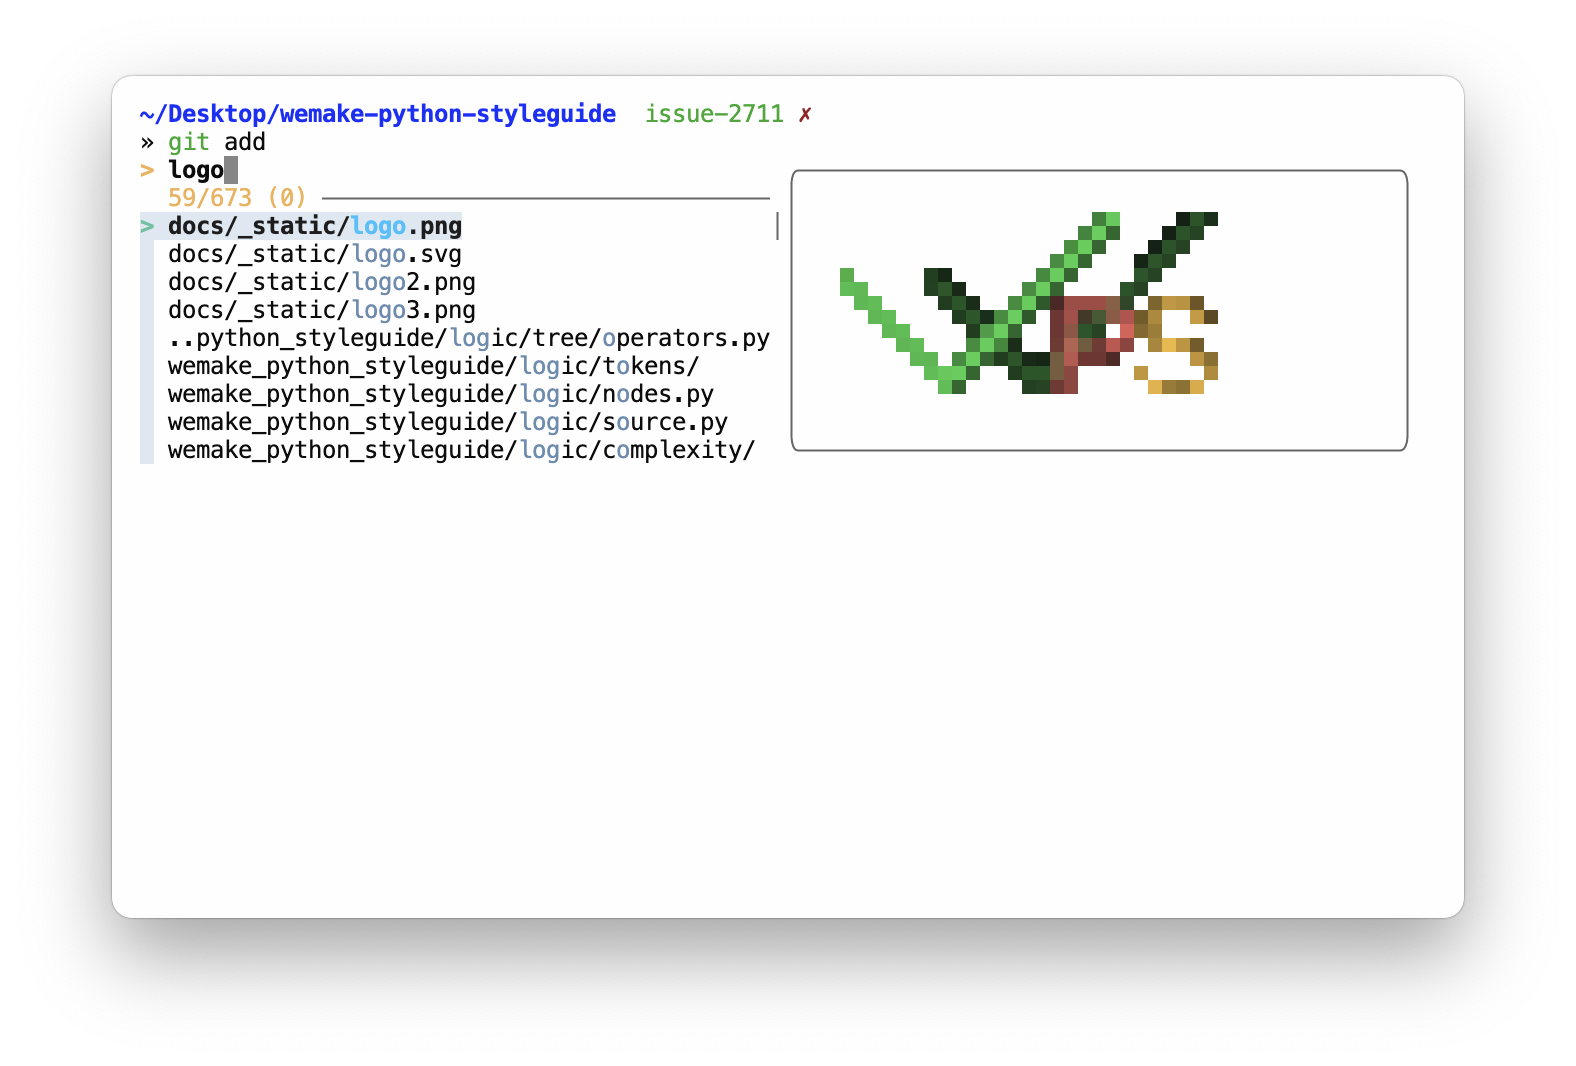
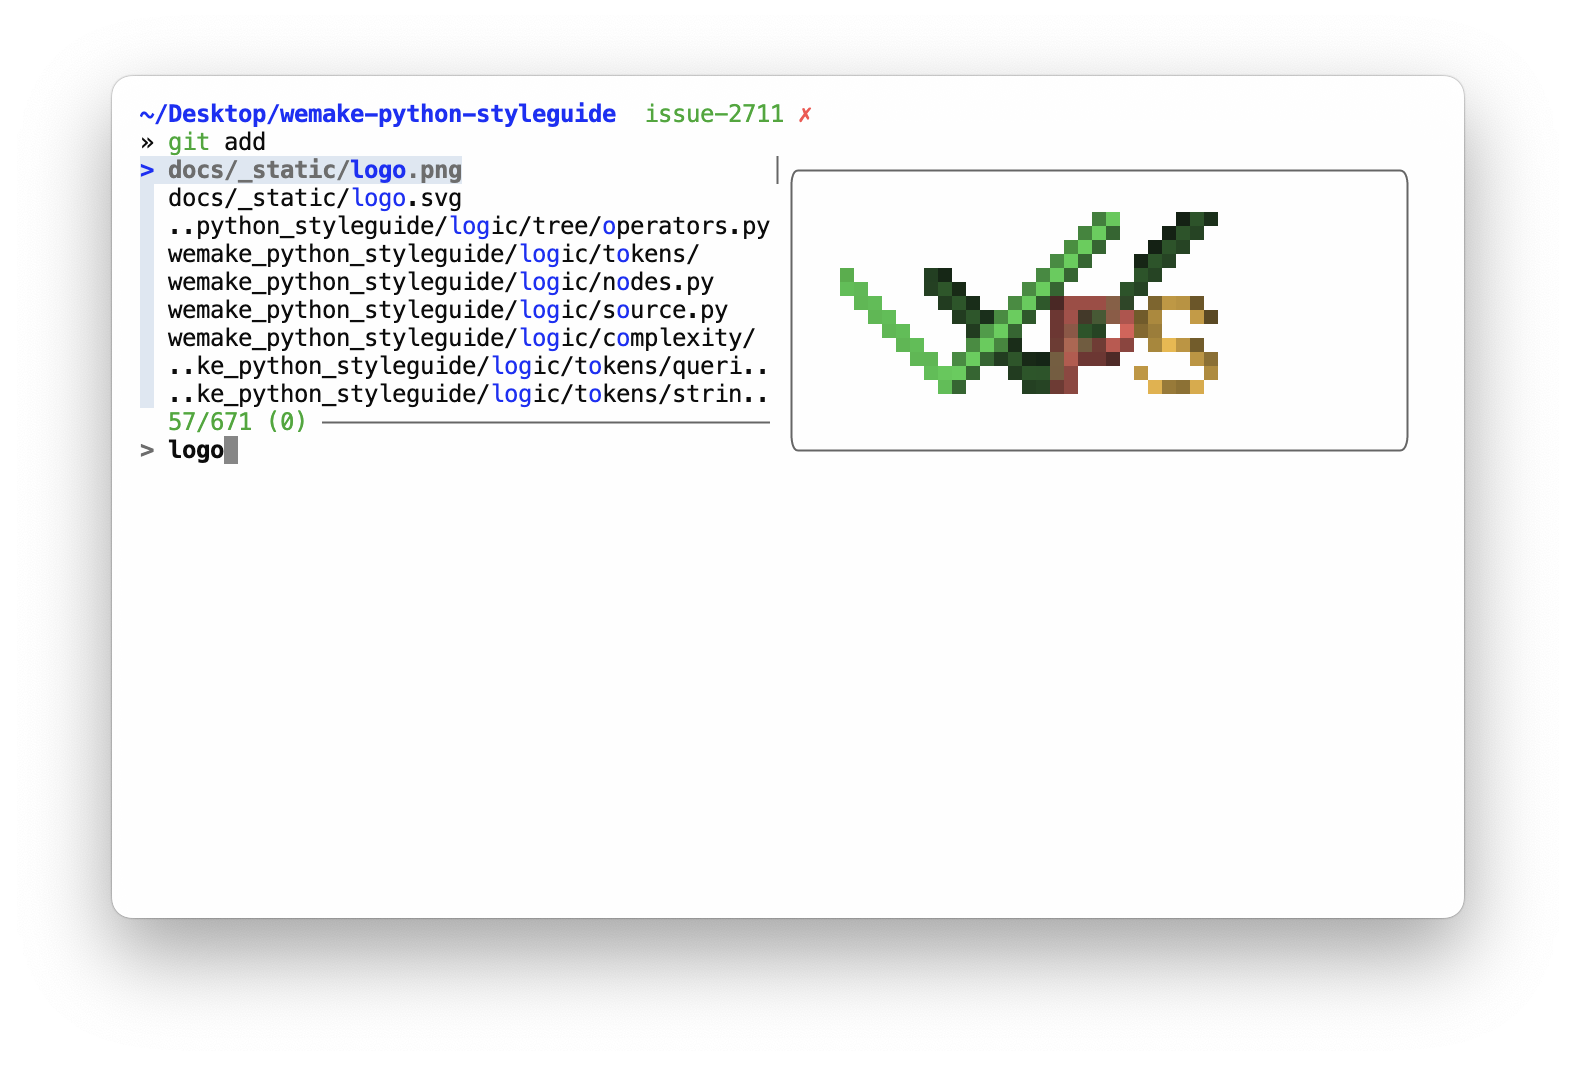
Use new `sobole` theme

Changed region(s): [[0.0622, 0.1238, 0.4975, 0.4334]]

diff --git a/config/hyper.js b/config/hyper.js
@@ -23,17 +23,18 @@ module.exports = {
     // set to true for blinking cursor
     cursorBlink: false,
 
-    // color of the text
-    foregroundColor: '#000',
-
-    // terminal background color
-    backgroundColor: '#fff',
-
     // selection color
     selectionColor: 'rgb(102, 102, 102)',
 
-    // border color (window, tabs)
+    // light theme:
+    foregroundColor: '#000',
+    backgroundColor: '#fff',
     borderColor: '#fff',
+
+    // dark theme for testing:
+    // foregroundColor: '#fff',
+    // backgroundColor: '#0A0E14',
+    // borderColor: '#0A0E14',
 
     // custom css to embed in the main window
     css: '',
@@ -57,15 +58,16 @@ module.exports = {
     // including the 6 x 6 color cubes and the grayscale map, just provide
     // an array here instead of a color map object
     colors: {
-      black: '#000000',
-      red: 'rgb(151, 4, 12)',
+      black: '#0A0E14',
+      red: '#FF8F40',
       green: 'rgb(23, 164, 26)',
       yellow: 'rgb(153, 152, 29)',
       blue: 'rgb(5, 22, 175)',
       magenta: 'rgb(177, 25, 176)',
       cyan: 'rgb(26, 166, 177)',
       white: 'rgb(191, 191, 191)',
-      lightBlack: 'rgb(102, 102, 102)',
+      // This is not really `light` this is more like `bold`:
+      lightBlack: '#0A0E14',
       lightRed: 'rgb(227, 10, 23)',
       lightGreen: 'rgb(33, 215, 38)',
       lightYellow: 'rgb(229, 228, 49)',
@@ -94,9 +96,7 @@ module.exports = {
     shellArgs: ['--login'],
 
     // for environment variables
-    env: {
-      'SOBOLE_THEME_MODE': 'light',
-    },
+    env: {},
 
     // set to false for no bell
     bell: false,
